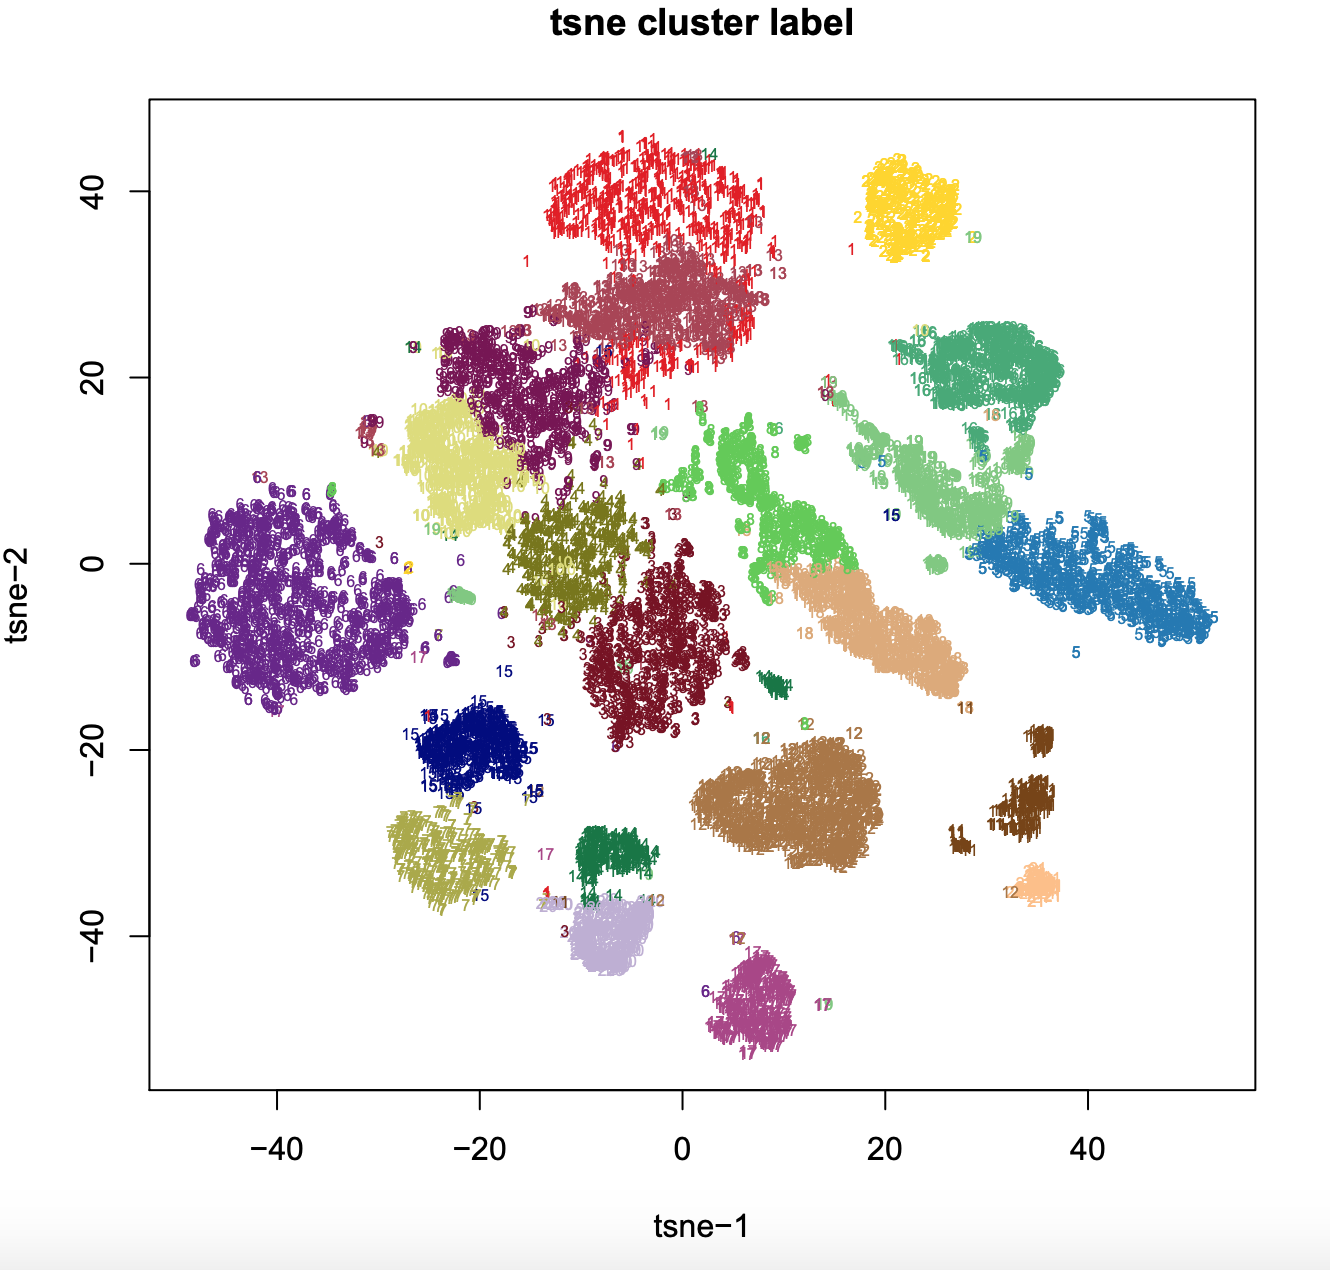
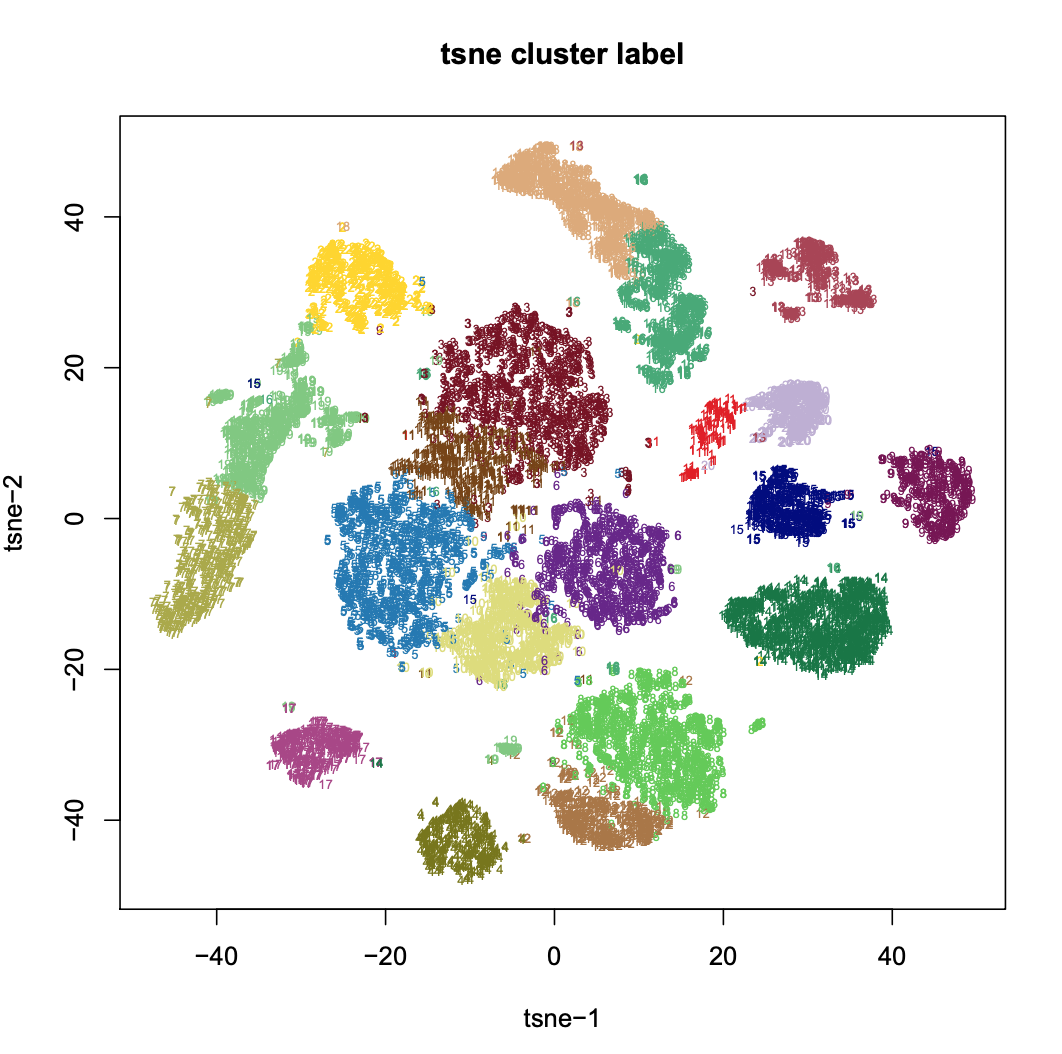
add Sst clustering for Fang_2019

diff --git a/examples/Fang_2019/Fang_2019.md b/examples/Fang_2019/Fang_2019.md
@@ -1,6 +1,6 @@
 ## Analysis of Mouse Secondary Motor Cortex (MOs)
-***_Please note that the data displayed here is only a subset of MOs dataset reported in Fang 2019 BioRxiv paper._***
-In Fang 2019 BioRxiv, mouse secondary motor cortex is dissected into three slices namely anterior, middle nad posterior slice, each contains two biological replicates. Here as a demonstration, we only used `CEMBA180306_2B` which is the first replicate for middle (2nd) slice. 
+***_Please note that the data displayed here is only a subset of MOs dataset reported in Fang 2019 paper._***        
+In Fang 2019, mouse secondary motor cortex is dissected into three slices namely anterior, middle nad posterior slice, each contains two biological replicates. Here as a demonstration, we only used `CEMBA180306_2B` which is the first replicate for middle (2nd) slice. 
 
 <img src="./MOs_slices.png" width="700" height="300" />
 
@@ -96,16 +96,7 @@ $ snaptools snap-add-gmat             \
 	--verbose=True
 ```
 
-**Step 7. Cell-by-Peak Count Matrix Generaton (snaptools)**.       
-Using the merged peak list (download from Fang 2019), snaptools generates cell-by-peak matrix. 
-
-```bash
-$ snaptools snap-add-pmat            \
-   --snap-file=CEMBA180306_2B.snap   \
-   --peak-file=all_peak.bed
-```
-
-**Step 8. Barcode Selection (SnapATAC)**.       
+**Step 7. Barcode Selection (SnapATAC)**.       
 Using snap file, we next identify the high-quality barcode based on the following metrices: 1) `fragment.num` - Total Sequencing Fragments; 2) `umap.ratio` - uniquely mapped ratio; 3) `dup.ratio ` - duplate ratio; 4) `pair.ratio` - properly paired ratio; 5) `mito.ratio` - mitochondrial ratio. 
 
 We no longer use reads in peak ratio as a metrics for cell selection mainly for two reasons. First, we found the reads-in-peak ration is highly cell type specific. For instance, according to published single cell ATAC-seq, human fibroblast (BJ) cells have significantly higher reads in peak ratio (40-60%) versus 20-40% for GM12878 cells. Similarly, we found Glia cells overall have very different reads in peak ratio distribution compared to neuronal cells. We suspect this may reflect the nucleus size or global chromatin accessibility. Second, pre-defined set of accessibility peaks are incomplete and are biased to the dominant populations. In Fang et al, when studying complex tissue such as mammalian brain, we found over 50% of the peaks present in the rare populations are not identified from the aggregate signal or bulk analysis. Therefore, we abandoned the use of reads in peak ratio for cell selection. 
@@ -150,7 +141,7 @@ umap:                (umap)    :  FALSE
 
 ```
 
-**Step 9. Bin Size Selection (snapATAC)**.        
+**Step 8. Bin Size Selection (snapATAC)**.        
 Using remaining cells, we next choose the optimal bin size based on the correlation between replicates. If there are no biological replicates given, the cells are evenly split into two pseudo-replicates. We recommend chosing the smallest bin size that have correlation greater than 0.95.
 
 ```R
@@ -173,14 +164,14 @@ Using remaining cells, we next choose the optimal bin size based on the correlat
 > x.sp = addBmat(x.sp, "CEMBA180306_2B.snap", binSize=5000);
 ```
 
-**Step 10. Matrix Binarization (snapATAC)**.         
+**Step 9. Matrix Binarization (snapATAC)**.         
 For cell-by-bin count matrix, we next convert it to a binary matrix. We found some items in the matrix can have exceedingly high coverage perhaps due to the alignment error. Therefore, we first remove top 0.1% items in the count matrix and then convert it to a binary matrix.
 
 ```R
 > x.sp = makeBinary(x.sp, mat="bmat");
 ```
 
-**Step 11. Feature Selection (snapATAC)**.        
+**Step 10. Feature Selection (snapATAC)**.        
 We next filtered any bins overlapping with the [ENCODE blacklist](http://mitra.stanford.edu/kundaje/akundaje/release/blacklists/) and bins belonging to chrM or random chromsomes to prevent from any potential artifacts Bins of exceedingly high coverage which likely represent the genomic regions that are invariable between cells such as housekeeping gene promoters were removed. We noticed that filtering bins of extremely low coverage perhaps due to random noise can also improve the robustness of the downstream clustering analysis. In detail, we calculated the coverage of each bin using the binary matrix and normalized the coverage by `log10(count + 1)`. We found the log-scaled coverage obey approximately a gaussian distribution which is then converted into zscore. In the following example, bins with zscore beyond ±2 were filtered. 
 
 ```R
@@ -226,7 +217,7 @@ umap:                (umap)    :  FALSE
 ```
 
 
-**Step 12. Jaccard Matrix & Normlaization (snapATAC)**.            
+**Step 11. Jaccard Matrix & Normlaization (snapATAC)**.            
 We next convert the genome-wide cell-by-bin matrix into a cell-by-cell similarity matrix by estimating the jaccard index between two cells in the basis of overlaps. Instead of calculating a full N-by-N jaccard matrix, we calculate a partial jaccard index matrix by randomly choosing K cells (`max.var`). By doing so, we demonstrate that it does not sacriface the performance but significantly improves the running time. Due to the high dropout rate, the jaccard index is highly biased toward high coverage cells. To remove the read depth effect, we developed a normalization method (`norm.method`).
   
 ```R
@@ -247,7 +238,7 @@ We next convert the genome-wide cell-by-bin matrix into a cell-by-cell similarit
 	)
 ``` 
 
-**Step 13. PCA (snapATAC)**.             
+**Step 12. PCA (snapATAC)**.             
 Like other single-cell analysis, scATAC-seq contains extensive technical noise due to the high drop-out rate. To overcome this challenge, PCA or SVD is often applied to combine information across a correlated feature set hereby creating a mega-feature and exclude the variance potential resulting from technical noise. Here, we performed PCA against the normalized matrix. We used IRLBA algorithm, a fast and memory-efficient algorithm, to compute a partial PCA. IRLBA is implemented in  `irlba` R package.
 
 ```R
@@ -263,7 +254,7 @@ Like other single-cell analysis, scATAC-seq contains extensive technical noise d
 	)
 ```
 
-**Step 14. Determine statistically significant principal components (snapATAC)**.          
+**Step 13. Determine statistically significant principal components (snapATAC)**.          
 We next Determine how many PCs to include for downstream analysis. We use an ad hoc method for determining which PCs to use is to look at a plot of the standard deviations of the principle components and draw your cutoff where there is a clear elbow in the graph. The other ad hoc way to determine PCs is to plot out every two PCs and select until PCs that have no obvious structure. 
 
 ```R
@@ -272,7 +263,7 @@ We next Determine how many PCs to include for downstream analysis. We use an ad 
 ```
 <img src="./PCA_elbow_plot.png" width="300" height="300" /> <img src="./PCA_scatter_plot.png" width="300" height="300" />
 
-**Step 15. Clustering (snapATAC)**.       
+**Step 14. Clustering (snapATAC)**.       
  Using the selected significant PCs, we next calculated pairwise Euclidean distance between every two cells, using this distance, we created a k-nearest neighbor graph in which every cell is represented as a node and edges are drawn between cells within `k` nearest neighbors. Edge weight between any two cells are refined by shared overlap in their local neighborhoods using Jaccard similarity. Finally, we applied community finding algorithm Louvain to identify the ‘communities’ in the resulting graph with different `resolution` which represents groups of cells sharing similar ATAC-seq profiles, potentially originating from the same cell type. This step requires `snaptools` to be installed frist and `path_to_snaptools` indicates the folder that contains the `snaptools` excutable file.
 
 ```R
@@ -286,7 +277,7 @@ We next Determine how many PCs to include for downstream analysis. We use an ad 
 	)
 ```
 
-**Step 16. Visulization (snapATAC)**.          
+**Step 15. Visulization (snapATAC)**.          
 snapATAC allows using tSNE, UMAP and FIt-sne to visualize and explore these datasets. In the following example, data is visulized by tsne implemented by R package (`Rtsne`).
 
 ```R
@@ -297,13 +288,22 @@ snapATAC allows using tSNE, UMAP and FIt-sne to visualize and explore these data
 	dims=2, 
 	method="Rtsne"
 	)
+# umap
+> x.sp = runViz(
+	x.sp, 
+	pca_dims=1:25, 
+	dims=2, 
+	method="umap"
+	)
 
 > plotViz(x.sp, method="tsne", pch=19, cex=0.5);
+> plotViz(x.sp, method="umap", pch=19, cex=0.5);
 ```
 
 <img src="./Viz_tsne.png" width="350" height="350" /> <img src="./Viz_tsne_label.png" width="350" height="350" />
+<img src="./Viz_umap.png" width="350" height="350" /> <img src="./Viz_umap_label.png" width="350" height="350" />
 
-**Step 17. Gene-body based annotation for expected cell types (snapATAC)**.        
+**Step 16. Gene-body based annotation for expected cell types (snapATAC)**.        
 To help annotate identified cell clusters, snapATAC next loads the cell-by-gene matrix which estimates the gene body accessibility level.
 
 ```R
@@ -318,19 +318,19 @@ To help annotate identified cell clusters, snapATAC next loads the cell-by-gene 
 	"Vip", "Sst", "Lamp5", "Slc17a7", "Mog", 
 	"Pdgfra", "Cspg4","Cx3cr1","F3","Aqp4", "Rorb"
 	);
-> plotGene(
+> plotGene.default(
 	x.sp, 
 	gene.sel=marker.genes, 
 	method="tsne",
 	binary=FALSE,
 	cex=0.1,
-	pch=19
+	background=TRUE
 	);
 ```
 
 <img src="./gene_plot.png" width="500" height="500" />
 
-**Step 18. Heretical clustering of the clusters (snapATAC)**. 
+**Step 17. Heretical clustering of the clusters (snapATAC)**. 
 
 ```R
 # calculate the ensemble signals for each cluster
@@ -344,11 +344,11 @@ To help annotate identified cell clusters, snapATAC next loads the cell-by-gene 
 
 <img src="./Viz_tsne_label.png" width="300" height="300" /> <img src="./cluster_tree.png" width="350" height="300" />
 
-**Step 19. Gene-body based annotation for excitatory neurons**.        
+**Step 18. Gene-body based annotation for excitatory neurons**.        
 We next extracted the clusters belonging to excitatory neurons based on the gene accessibility level for Slc17a7 and plot layer-specific marker genes enrichment.
 
 ```R
-> idx = which(x.sp@cluster %in% c(9, 10, 1, 13, 3, 4, 2, 6, 17));
+> idx = which(x.sp@cluster %in% c(3, 11, 5, 6, 10, 17, 4, 8, 12));
 > marker.genes = c(
 	"Cux1", "Cux2", "Rorb", "Deptor", 
 	"Vat1l", "Sulf1", "Tle4", "Foxp2", 
@@ -363,13 +363,14 @@ We next extracted the clusters belonging to excitatory neurons based on the gene
 	plot.row=4,
 	plot.col=4,
 	xlim=c(min(x.sp@tsne[,1]), max(x.sp@tsne[,1])),
-	ylim=c(min(x.sp@tsne[,2]), max(x.sp@tsne[,2]))
+	ylim=c(min(x.sp@tsne[,2]), max(x.sp@tsne[,2])),
+	background=TRUE,
 	);
 ```
 
 <img src="./gene_plot_exc.png" width="500" height="375" />
 
-**Step 20. Identify Cis-elements for Each Cluster**.      
+**Step 19. Identify cis-elements for each cluster seperately**.      
 We first export the meta data which includes barcode, cluster, tsne, umap coordinates, quality control metrics.
 
 ```R
@@ -406,7 +407,7 @@ CEMBA180306_2B.metadata.C1_treat_pileup.bdg
 
 Repeat the above proccess for other clusters with cells more than 500 and merge all peak (narrowPeak) files to create a reference map. Here we download the `all_peak.bed` identified from all MOs data described in Fang 2019. 
 
-**Step 21. Create a cell-by-peak matrix**.     
+**Step 20. Create a cell-by-peak matrix**.     
 We next create cell by peak matrix using the sanp file and `all_peak.bed`.
 
 ```
@@ -416,14 +417,14 @@ $ snaptools snap-add-pmat  \
 ```
 
 
-**Step 22. Identify differential accessible regions (DARs)**.    
-Now we go back to the R session and continue the SnapATAC.
+**Step 21. Identify differential accessible regions (DARs)**.    
+Now we go back to the R session and continue the SnapATAC. We identify cis-elements that are enriched in Sst subtype.
 
 ```R
 > x.sp = addPmat(x.sp, "CEMBA180306_2B.snap");
 > x.sp = makeBinary(x.sp, mat="pmat");
-> barcodes = x.sp@barcode[which(x.sp@cluster == 7)];
-> idy = findDAR.default(
+> barcodes = x.sp@barcode[which(x.sp@cluster == 15)];
+> idy = findDAR(
 	object=x.sp, 
 	mat="pmat",
 	barcodes.sel=barcodes,
@@ -446,17 +447,17 @@ Now we go back to the R session and continue the SnapATAC.
 	);
 ```
 
-<img src="./Module_enrichment_plot.png" width="300" height="300" />
+<img src="./Viz_tsne_label.png" width="300" height="300" /> <img src="./Module_enrichment_plot.png" width="300" height="300" />
 
-**Step 23. Infer master regulators (DARs)**.     
-Motif analysis using homer (see how to install [homer](http://homer.ucsd.edu/homer/introduction/install.html)). 
+**Step 22. Infer master regulators**.           
+Motif analysis using homer (see how to install [homer](http://homer.ucsd.edu/homer/introduction/install.html)). After installing homer, you can run the below step.
 
 ```R
-> motifs = runHomer.default(
+> motifs = runHomer(
 	x.sp[,idy,"pmat"], 
 	mat = "pmat",
-	path_to_homer = "/projects/ps-renlab/r3fang/public_html/softwares/homer/bin/homer",
-	result_dir = "./homer/Pvalb_DAR",
+	path_to_homer = "/projects/ps-renlab/r3fang/public_html/softwares/homer/bin/findMotifsGenome.pl",
+	result_dir = "./homer/Sst",
 	genome = 'mm10',
 	motif_length = 10,
 	scan_size = 300,
@@ -473,17 +474,111 @@ Motif analysis using homer (see how to install [homer](http://homer.ucsd.edu/hom
 	)
 > head(motifs[,1:3])
 
-                                             Motif.Name    Consensus P.value
-1  Mef2b(MADS)/HEK293-Mef2b.V5-ChIP-Seq(GSE67450)/Homer GCTATTTTTGGM   1e-86
-2    Mef2c(MADS)/GM12878-Mef2c-ChIP-Seq(GSE32465)/Homer DCYAAAAATAGM   1e-70
-3 Mef2a(MADS)/HL1-Mef2a.biotin-ChIP-Seq(GSE21529)/Homer   CYAAAAATAG   1e-68
-4     Mef2d(MADS)/Retina-Mef2d-ChIP-Seq(GSE61391)/Homer GCTATTTTTAGC   1e-58
-5        Fra1(bZIP)/BT549-Fra1-ChIP-Seq(GSE46166)/Homer NNATGASTCATH   1e-45
-6     Fra2(bZIP)/Striatum-Fra2-ChIP-Seq(GSE43429)/Homer GGATGACTCATC   1e-44
+                                                     Motif.Name    Consensus	P.value
+1 Tcf21(bHLH)/ArterySmoothMuscle-Tcf21-ChIP-Seq(GSE61369)/Homer   NAACAGCTGG	1e-185
+2            Tcf12(bHLH)/GM12878-Tcf12-ChIP-Seq(GSE32465)/Homer   VCAGCTGYTG	1e-159
+3                  Ap4(bHLH)/AML-Tfap4-ChIP-Seq(GSE45738)/Homer   NAHCAGCTGD	1e-159
+4        Ascl1(bHLH)/NeuralTubes-Ascl1-ChIP-Seq(GSE55840)/Homer NNVVCAGCTGBN	1e-151
+5              Ptf1a(bHLH)/Panc1-Ptf1a-ChIP-Seq(GSE47459)/Homer   ACAGCTGTTN	1e-146
+6                    HEB(bHLH)/mES-Heb-ChIP-Seq(GSE53233)/Homer   VCAGCTGBNN	1e-137
 
 ```
 
-<img src="./Homer_motif.png" width="900" height="300" />
+**Step 23. Sub-clustering of Sst subtype**.              
+GABAergic neurons are composed of highly diverse neurons. Previous single cell RNA-seq analysis has revealed extensive amount of GABAergic subtypes. Here we perform sub-cluster of Sst to further identify its subtype. This can be applied to other cell types, here we only demonstrate for Sst.
+
+```R
+> x.sst.sp = x.sp[which(x.sp@cluster == 15),];
+> x.sst.sp
+
+number of barcodes: 350
+number of bins: 476589
+number of peaks: 316257
+number of genes: 53278
+==========================
+meta data            (metData) :  TRUE
+cellxbin matrix      (bmat)    :  TRUE
+cellxpeak matrix     (pmat)    :  TRUE
+cellxgene matrix     (gmat)    :  TRUE
+jaccard matrix       (jmat)    :  FALSE
+normalization        (nmat)    :  TRUE
+PCA:                 (smat)    :  TRUE
+cluster:             (cluster) :  TRUE
+t-sne:               (tsne)    :  TRUE
+umap:                (umap)    :  TRUE
+
+> x.sst.sp = calJaccard(
+	x.sst.sp,
+	mat = "bmat",
+	ncell.chunk=1000,
+	max.var=5000,
+	seed.use=10,
+	norm.method="normOVE",
+	row.center=TRUE,
+	row.scale=TRUE,
+	low.threshold=-5,
+	high.threshold=5,
+	keep.jmat=FALSE,
+	do.par=TRUE,
+	num.cores=5
+	)
+
+> x.sst.sp = runPCA(
+	x.sst.sp,
+	pc.num=50,
+	input.mat="nmat",
+	method="svd",
+	weight.by.sd=TRUE,
+	center=TRUE,
+	scale=FALSE,
+	seed.use=10
+	)
+
+> plotPCA(x.sst.sp, method="pairwise") 
+
+> x.sst.sp = runCluster(
+	x.sst.sp,
+	pca_dims=1:10,
+	k=15,
+	resolution=1,
+	method="jaccard_louvain",
+	path_to_snaptools="/home/r3fang/anaconda2/bin/snaptools"
+	)
+	
+> x.sst.sp = runViz(
+	x.sst.sp, 
+	pca_dims=1:10, 
+	dims=2, 
+	method="Rtsne"
+	)
+> x.sst.sp = runViz(
+	x.sst.sp, 
+	pca_dims=1:10, 
+	dims=2, 
+	method="umap"
+	)
+
+> plotViz(x.sst.sp, method="tsne", pch=19, cex=1);
+> plotViz(x.sst.sp, method="umap", pch=19, cex=1);
+
+```
+
+<img src="./Viz_tsne_label_sst.png" width="350" height="350" /> <img src="./Viz_umap_label_sst.png" width="350" height="350" />
 
 
+```
+> plotGene(
+	x.sst.sp, 
+	gene.sel="Chodl", 
+	method="umap",
+	binary=FALSE,
+	cex=2,
+	plot.row=1,
+	plot.col=1,
+	background=TRUE,
+	pch=19
+	);
+```
+
+<img src="./Sst_Chodl.png" width="300" height="270" /> 
 

diff --git a/README.md b/README.md
@@ -2,11 +2,11 @@
 Single Nuclesus Analysis Package for ATAC-seq. 
 
 ## Introduction
-SnapATAC is fast, accurate and truely unbiased method for analyzing single cell ATAC-seq datasets. Compared to previous methods, SnapATAC 1) overcomes the bias introduced by reliance on accessibility peaks defined by aggragte signals; 2) as a results, it reveals novel cis-elements only acitive in rare populations; 3) adjusts for differing sequencing depth effect between cells; 4) scales up to millions of cells using a novel dimensionality reduction method. 
+SnapATAC is fast, accurate and truely unbiased method for analyzing single cell ATAC-seq datasets. Compared to previous methods, SnapATAC 1) overcomes the bias introduced by reliance on accessibility peaks defined by aggragte signals; 2) as a result, reveals novel cis-elements only acitive in rare populations; 3) adjusts for differing sequencing depth effect between cells; 4) scales up to millions of cells using a novel dimensionality reduction method. 
 
 SnapATAC is composed of two components: [Snaptools](https://github.com/r3fang/SnapTools) and [SnapATAC](https://github.com/r3fang/SnapATAC). 
 
-* Snaptools is a module for working with snap files in Python. 
+* Snaptools is a module for working with [snap](https://github.com/r3fang/SnapATAC/wiki/What-is-a-snap-file%3F) file in Python. 
 * SnapATAC is a R package for the downstream analysis. 
 
 Together, SnapATAC represents an end-to-end solution of single cell ATAC-seq analysis.
